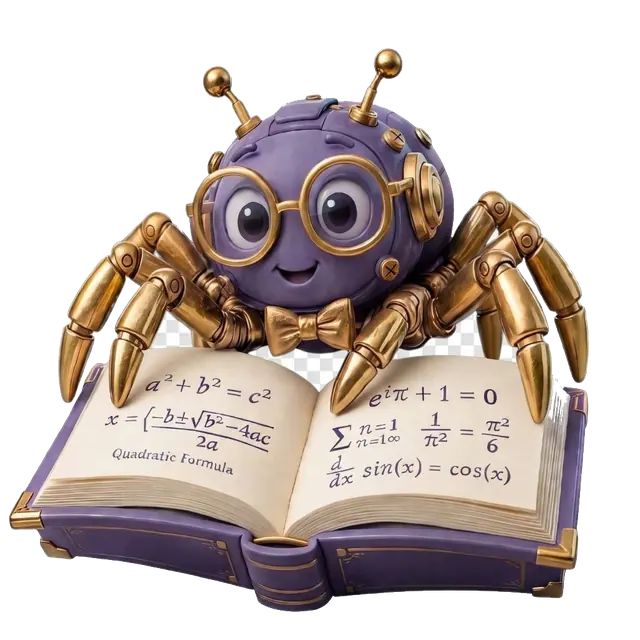
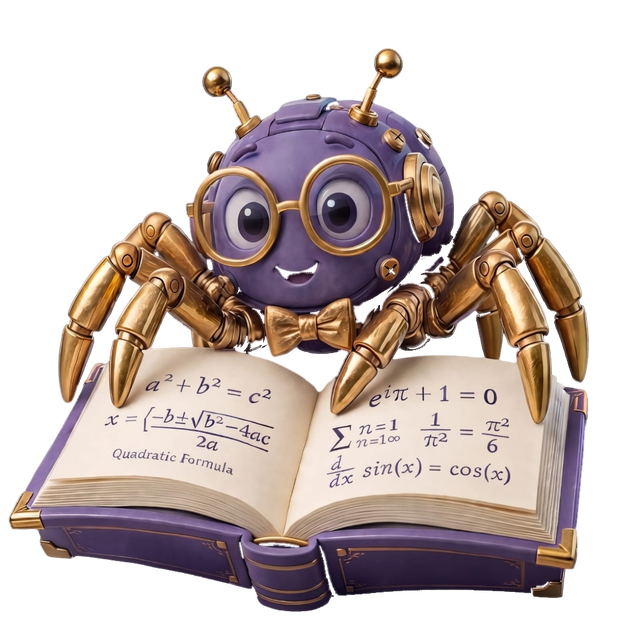
feat(assets): update curricula and English hero mascot images with transparent matte extraction and cache busting v5

diff --git a/src/app/features/guest-portal/landing-home/landing-home.component.html b/src/app/features/guest-portal/landing-home/landing-home.component.html
@@ -138,9 +138,9 @@
             <!-- 3D Mascot Image with Book (Transparent WebP with Gentle Float) -->
             <div class="relative z-10 w-full flex items-center justify-center pt-6">
               <img
-                [attr.srcset]="langService.isArabic() ? '/assets/branding/spider-mascot-hero-book-ar-sm-v3.webp?v=4 480w, /assets/branding/spider-mascot-hero-book-ar-v3.webp?v=4 640w' : '/assets/branding/spider-mascot-hero-book-sm-v3.webp?v=4 480w, /assets/branding/spider-mascot-hero-book-v3.webp?v=4 640w'"
+                [attr.srcset]="langService.isArabic() ? '/assets/branding/spider-mascot-hero-book-ar-sm-v3.webp?v=5 480w, /assets/branding/spider-mascot-hero-book-ar-v3.webp?v=5 640w' : '/assets/branding/spider-mascot-hero-book-sm-v3.webp?v=5 480w, /assets/branding/spider-mascot-hero-book-v3.webp?v=5 640w'"
                 sizes="(max-width: 640px) 360px, (max-width: 1023px) 440px, 500px"
-                [src]="langService.isArabic() ? '/assets/branding/spider-mascot-hero-book-ar-v3.webp?v=4' : '/assets/branding/spider-mascot-hero-book-v3.webp?v=4'"
+                [src]="langService.isArabic() ? '/assets/branding/spider-mascot-hero-book-ar-v3.webp?v=5' : '/assets/branding/spider-mascot-hero-book-v3.webp?v=5'"
                 [alt]="langService.isArabic() ? 'رفيق سبايدر ماث الذكي للمذاكرة' : 'Spider Math AI Study Partner'"
                 width="640"
                 height="640"

diff --git a/src/app/shared/components/curriculum-selector-cards/curriculum-selector-cards.component.html b/src/app/shared/components/curriculum-selector-cards/curriculum-selector-cards.component.html
@@ -18,8 +18,8 @@
       </div>
       <img
         #spiderMascotDesktop
-        src="/assets/branding/spider-mascot-curricula-v3.webp?v=4"
-        srcset="/assets/branding/spider-mascot-curricula-sm-v3.webp?v=4 364w, /assets/branding/spider-mascot-curricula-v3.webp?v=4 480w"
+        src="/assets/branding/spider-mascot-curricula-v3.webp?v=5"
+        srcset="/assets/branding/spider-mascot-curricula-sm-v3.webp?v=5 364w, /assets/branding/spider-mascot-curricula-v3.webp?v=5 480w"
         sizes="(max-width: 1279px) 440px, 480px"
         alt="Spider Math Curricula Guide"
         width="480"
@@ -321,8 +321,8 @@
         </div>
         <img
           #spiderMascotMobile
-          src="/assets/branding/spider-mascot-curricula-v3.webp?v=4"
-          srcset="/assets/branding/spider-mascot-curricula-sm-v3.webp?v=4 364w, /assets/branding/spider-mascot-curricula-v3.webp?v=4 480w"
+          src="/assets/branding/spider-mascot-curricula-v3.webp?v=5"
+          srcset="/assets/branding/spider-mascot-curricula-sm-v3.webp?v=5 364w, /assets/branding/spider-mascot-curricula-v3.webp?v=5 480w"
           sizes="(max-width: 639px) 208px, 256px"
           alt="Spider Math Curricula Guide"
           width="364"

diff --git a/src/index.html b/src/index.html
@@ -11,8 +11,8 @@
   <link
     rel="preload"
     as="image"
-    href="/assets/branding/spider-mascot-hero-book-ar-v3.webp?v=4"
-    imagesrcset="/assets/branding/spider-mascot-hero-book-ar-sm-v3.webp?v=4 480w, /assets/branding/spider-mascot-hero-book-ar-v3.webp?v=4 640w"
+    href="/assets/branding/spider-mascot-hero-book-ar-v3.webp?v=5"
+    imagesrcset="/assets/branding/spider-mascot-hero-book-ar-sm-v3.webp?v=5 480w, /assets/branding/spider-mascot-hero-book-ar-v3.webp?v=5 640w"
     imagesizes="(max-width: 640px) 360px, (max-width: 1023px) 440px, 500px"
     fetchpriority="high"
   >

diff --git a/src/app/shared/components/brand-footer/brand-footer.component.html b/src/app/shared/components/brand-footer/brand-footer.component.html
@@ -5,7 +5,7 @@
       <!-- 1. Left: Spider Mascot + Wordmark -->
       <a [routerLink]="homeRoute()" (click)="scrollToTop()" class="flex items-center gap-2.5 group cursor-pointer shrink-0">
         <img
-          src="/assets/branding/spider-mascot-nav-v3.webp?v=4"
+          src="/assets/branding/spider-mascot-nav-v3.webp?v=5"
           alt="Spider Math Logo"
           width="36"
           height="36"

diff --git a/src/app/shared/components/brand-header/brand-header.component.html b/src/app/shared/components/brand-header/brand-header.component.html
@@ -37,7 +37,7 @@
     >
       <!-- Official Mascot Logo Icon (With Open Academic Book) -->
       <img
-        src="/assets/branding/spider-mascot-nav-v3.webp?v=4"
+        src="/assets/branding/spider-mascot-nav-v3.webp?v=5"
         alt="Spider Math Logo"
         width="40"
         height="40"

diff --git a/scripts/process-mascots.py b/scripts/process-mascots.py
@@ -1,0 +1,245 @@
+#!/usr/bin/env python3
+"""
+Spider Math - Mascot Background Removal & WebP Optimization Pipeline
+Extracts 3D mascots rendered against black background into clean transparent RGBA
+assets without dark fringes or black halos, generating responsive variants for
+desktop and mobile.
+"""
+
+import sys
+from pathlib import Path
+from collections import deque
+from PIL import Image
+
+def remove_black_background(src_path: Path) -> Image.Image:
+    """
+    Studio-grade matte extraction for 3D CGI subjects on black background.
+    Preserves character details (eyes, pupils, shadows) while cleanly excising
+    both outer background and negative-space pockets between limbs.
+    Performs un-premultiplication along anti-aliased edges to eliminate dark fringes.
+    """
+    img = Image.open(src_path).convert('RGB')
+    w, h = img.size
+    pixels = img.load()
+
+    # Step 1: Outer flood fill from canvas borders with threshold T=20
+    bg_mask = bytearray(w * h)
+    q = deque()
+    for x in range(w):
+        for y in (0, h - 1):
+            if max(pixels[x, y]) <= 20 and not bg_mask[y * w + x]:
+                bg_mask[y * w + x] = 1
+                q.append((x, y))
+    for y in range(h):
+        for x in (0, w - 1):
+            if max(pixels[x, y]) <= 20 and not bg_mask[y * w + x]:
+                bg_mask[y * w + x] = 1
+                q.append((x, y))
+
+    while q:
+        cx, cy = q.popleft()
+        for dx, dy in ((-1, 0), (1, 0), (0, -1), (0, 1)):
+            nx, ny = cx + dx, cy + dy
+            if 0 <= nx < w and 0 <= ny < h:
+                nidx = ny * w + nx
+                if not bg_mask[nidx] and max(pixels[nx, ny]) <= 20:
+                    bg_mask[nidx] = 1
+                    q.append((nx, ny))
+
+    # Step 2: Detect enclosed negative space pockets between limbs
+    # Background pockets have true black floors (min_c <= 10, avg_c <= 16.5, sz >= 15)
+    # Character features (like eye pupils with min_c >= 11 or facial shadows) are preserved.
+    visited = bytearray(w * h)
+    for y in range(h):
+        for x in range(w):
+            idx = y * w + x
+            if not bg_mask[idx] and not visited[idx] and max(pixels[x, y]) <= 20:
+                comp = []
+                cq = deque([(x, y)])
+                visited[idx] = 1
+                while cq:
+                    px_c, py_c = cq.popleft()
+                    comp.append((px_c, py_c))
+                    for dx, dy in ((-1, 0), (1, 0), (0, -1), (0, 1)):
+                        nx, ny = px_c + dx, py_c + dy
+                        if 0 <= nx < w and 0 <= ny < h:
+                            nidx = ny * w + nx
+                            if not bg_mask[nidx] and not visited[nidx] and max(pixels[nx, ny]) <= 20:
+                                visited[nidx] = 1
+                                cq.append((nx, ny))
+                sz = len(comp)
+                min_c = min(max(pixels[p]) for p in comp)
+                avg_c = sum(max(pixels[p]) for p in comp) / sz
+                if sz >= 15 and min_c <= 10 and avg_c <= 16.5:
+                    for p in comp:
+                        bg_mask[p[1] * w + p[0]] = 1
+
+    # Step 3: Expand background by swallowing residual DCT ringing noise (<= 16)
+    q = deque()
+    for y in range(h):
+        for x in range(w):
+            if bg_mask[y * w + x] == 1:
+                q.append((x, y))
+    while q:
+        cx, cy = q.popleft()
+        for dx, dy in ((-1, 0), (1, 0), (0, -1), (0, 1)):
+            nx, ny = cx + dx, cy + dy
+            if 0 <= nx < w and 0 <= ny < h:
+                nidx = ny * w + nx
+                if not bg_mask[nidx] and max(pixels[nx, ny]) <= 16:
+                    bg_mask[nidx] = 1
+                    q.append((nx, ny))
+
+    # Step 4: Multi-pixel transition zone un-premultiplication (radius 2)
+    dist_to_bg = [255] * (w * h)
+    edge_q = deque()
+    for y in range(h):
+        for x in range(w):
+            if bg_mask[y * w + x] == 1:
+                dist_to_bg[y * w + x] = 0
+            else:
+                for dx, dy in ((-1, 0), (1, 0), (0, -1), (0, 1), (-1, -1), (1, -1), (-1, 1), (1, 1)):
+                    nx, ny = x + dx, y + dy
+                    if 0 <= nx < w and 0 <= ny < h and bg_mask[ny * w + nx] == 1:
+                        dist_to_bg[y * w + x] = 1
+                        edge_q.append((x, y))
+                        break
+
+    while edge_q:
+        cx, cy = edge_q.popleft()
+        cd = dist_to_bg[cy * w + cx]
+        if cd >= 2:
+            continue
+        for dx, dy in ((-1, 0), (1, 0), (0, -1), (0, 1)):
+            nx, ny = cx + dx, cy + dy
+            if 0 <= nx < w and 0 <= ny < h:
+                nidx = ny * w + nx
+                if dist_to_bg[nidx] > cd + 1:
+                    dist_to_bg[nidx] = cd + 1
+                    edge_q.append((nx, ny))
+
+    out = Image.new('RGBA', (w, h), (0, 0, 0, 0))
+    out_pixels = out.load()
+
+    for y in range(h):
+        for x in range(w):
+            idx = y * w + x
+            d = dist_to_bg[idx]
+            if d == 0:
+                continue
+            r, g, b = pixels[x, y]
+            if d > 2:
+                out_pixels[x, y] = (r, g, b, 255)
+            else:
+                fg_samples = []
+                for dy in range(-4, 5):
+                    for dx in range(-4, 5):
+                        nx, ny = x + dx, y + dy
+                        if 0 <= nx < w and 0 <= ny < h:
+                            if dist_to_bg[ny * w + nx] > 2:
+                                fg_samples.append(pixels[nx, ny])
+                if fg_samples:
+                    avg_fr = sum(c[0] for c in fg_samples) / len(fg_samples)
+                    avg_fg = sum(c[1] for c in fg_samples) / len(fg_samples)
+                    avg_fb = sum(c[2] for c in fg_samples) / len(fg_samples)
+                    max_f = max(avg_fr, avg_fg, avg_fb, 30.0)
+                else:
+                    max_f = max(r, g, b, 30.0)
+
+                max_c = max(r, g, b)
+                alpha = min(1.0, max(0.0, max_c / max_f))
+                alpha_int = int(round(alpha * 255))
+
+                if alpha_int <= 15:
+                    out_pixels[x, y] = (0, 0, 0, 0)
+                else:
+                    unmult_r = min(255, int(round(r / alpha)))
+                    unmult_g = min(255, int(round(g / alpha)))
+                    unmult_b = min(255, int(round(b / alpha)))
+                    out_pixels[x, y] = (unmult_r, unmult_g, unmult_b, alpha_int)
+
+    return out
+
+
+def save_variants(rgba_img: Image.Image, output_specs: list[dict]):
+    """
+    Save multiple WebP/PNG variants using Lanczos resampling.
+    output_specs: list of dicts with:
+      'path': Path, 'size': (w, h), 'format': 'WEBP'|'PNG', 'quality': int
+    """
+    for spec in output_specs:
+        target_path: Path = spec['path']
+        target_path.parent.mkdir(parents=True, exist_ok=True)
+        size = spec['size']
+        fmt = spec.get('format', 'WEBP')
+        quality = spec.get('quality', 85)
+
+        if rgba_img.size != size:
+            resized = rgba_img.resize(size, Image.Resampling.LANCZOS)
+        else:
+            resized = rgba_img
+
+        if fmt == 'WEBP':
+            resized.save(target_path, 'WEBP', quality=quality, method=6, optimize=True)
+        elif fmt == 'PNG':
+            resized.save(target_path, 'PNG', optimize=True)
+        else:
+            raise ValueError(f"Unsupported format: {fmt}")
+
+        file_kb = target_path.stat().st_size / 1024
+        print(f"  -> Saved {target_path.name} ({size[0]}x{size[1]}, {fmt}, {file_kb:.1f} KB)")
+
+
+def main():
+    project_root = Path(__file__).resolve().parent.parent
+    branding_dir = project_root / 'src' / 'assets' / 'branding'
+    raw_dir = branding_dir / 'raw'
+    raw_dir.mkdir(parents=True, exist_ok=True)
+
+    # Source 1: Curricula mascot (hands up, smiling)
+    src_curricula = Path(r"C:\Users\A&M\.gemini\antigravity\brain\7884e37f-b482-4770-8151-7e858c83638b\.user_uploaded\media_1794333110569_1bb7de14.jpg")
+    # Source 2: English hero mascot (looking left)
+    src_hero_en = Path(r"C:\Users\A&M\.gemini\antigravity\brain\7884e37f-b482-4770-8151-7e858c83638b\.user_uploaded\media_1794333114089_f77c1f40.jpg")
+
+    # Copy raw sources locally for reproducibility
+    local_raw_curricula = raw_dir / "spider-mascot-curricula.jpg"
+    local_raw_hero_en = raw_dir / "spider-mascot-hero-en.jpg"
+
+    if src_curricula.exists():
+        import shutil
+        shutil.copy2(src_curricula, local_raw_curricula)
+        print(f"Copied raw curricula source to {local_raw_curricula.name}")
+    if src_hero_en.exists():
+        import shutil
+        shutil.copy2(src_hero_en, local_raw_hero_en)
+        print(f"Copied raw hero EN source to {local_raw_hero_en.name}")
+
+    print("\n=======================================================")
+    print("1. Processing Curricula Mascot...")
+    print("=======================================================")
+    curricula_rgba = remove_black_background(local_raw_curricula if local_raw_curricula.exists() else src_curricula)
+    save_variants(curricula_rgba, [
+        {'path': branding_dir / 'spider-mascot-curricula-v3.webp', 'size': (480, 480), 'format': 'WEBP', 'quality': 85},
+        {'path': branding_dir / 'spider-mascot-curricula-sm-v3.webp', 'size': (364, 364), 'format': 'WEBP', 'quality': 82},
+        {'path': branding_dir / 'spider-mascot-curricula.webp', 'size': (480, 480), 'format': 'WEBP', 'quality': 85},
+        {'path': branding_dir / 'spider-mascot-curricula-v3.png', 'size': (480, 480), 'format': 'PNG'},
+        {'path': branding_dir / 'spider-mascot-curricula.png', 'size': (480, 480), 'format': 'PNG'},
+    ])
+
+    print("\n=======================================================")
+    print("2. Processing English Hero Section Mascot...")
+    print("=======================================================")
+    hero_en_rgba = remove_black_background(local_raw_hero_en if local_raw_hero_en.exists() else src_hero_en)
+    save_variants(hero_en_rgba, [
+        {'path': branding_dir / 'spider-mascot-hero-book-v3.webp', 'size': (640, 640), 'format': 'WEBP', 'quality': 85},
+        {'path': branding_dir / 'spider-mascot-hero-book-sm-v3.webp', 'size': (480, 480), 'format': 'WEBP', 'quality': 82},
+        {'path': branding_dir / 'spider-mascot-hero-book-v3.png', 'size': (640, 640), 'format': 'PNG'},
+        {'path': branding_dir / 'spider-mascot-hero-book.webp', 'size': (640, 640), 'format': 'WEBP', 'quality': 85},
+        {'path': branding_dir / 'spider-mascot-book.webp', 'size': (640, 640), 'format': 'WEBP', 'quality': 85},
+        {'path': branding_dir / 'spider-mascot-book.png', 'size': (640, 640), 'format': 'PNG'},
+    ])
+
+    print("\n✓ Mascot assets successfully generated and optimized!")
+
+if __name__ == '__main__':
+    main()
